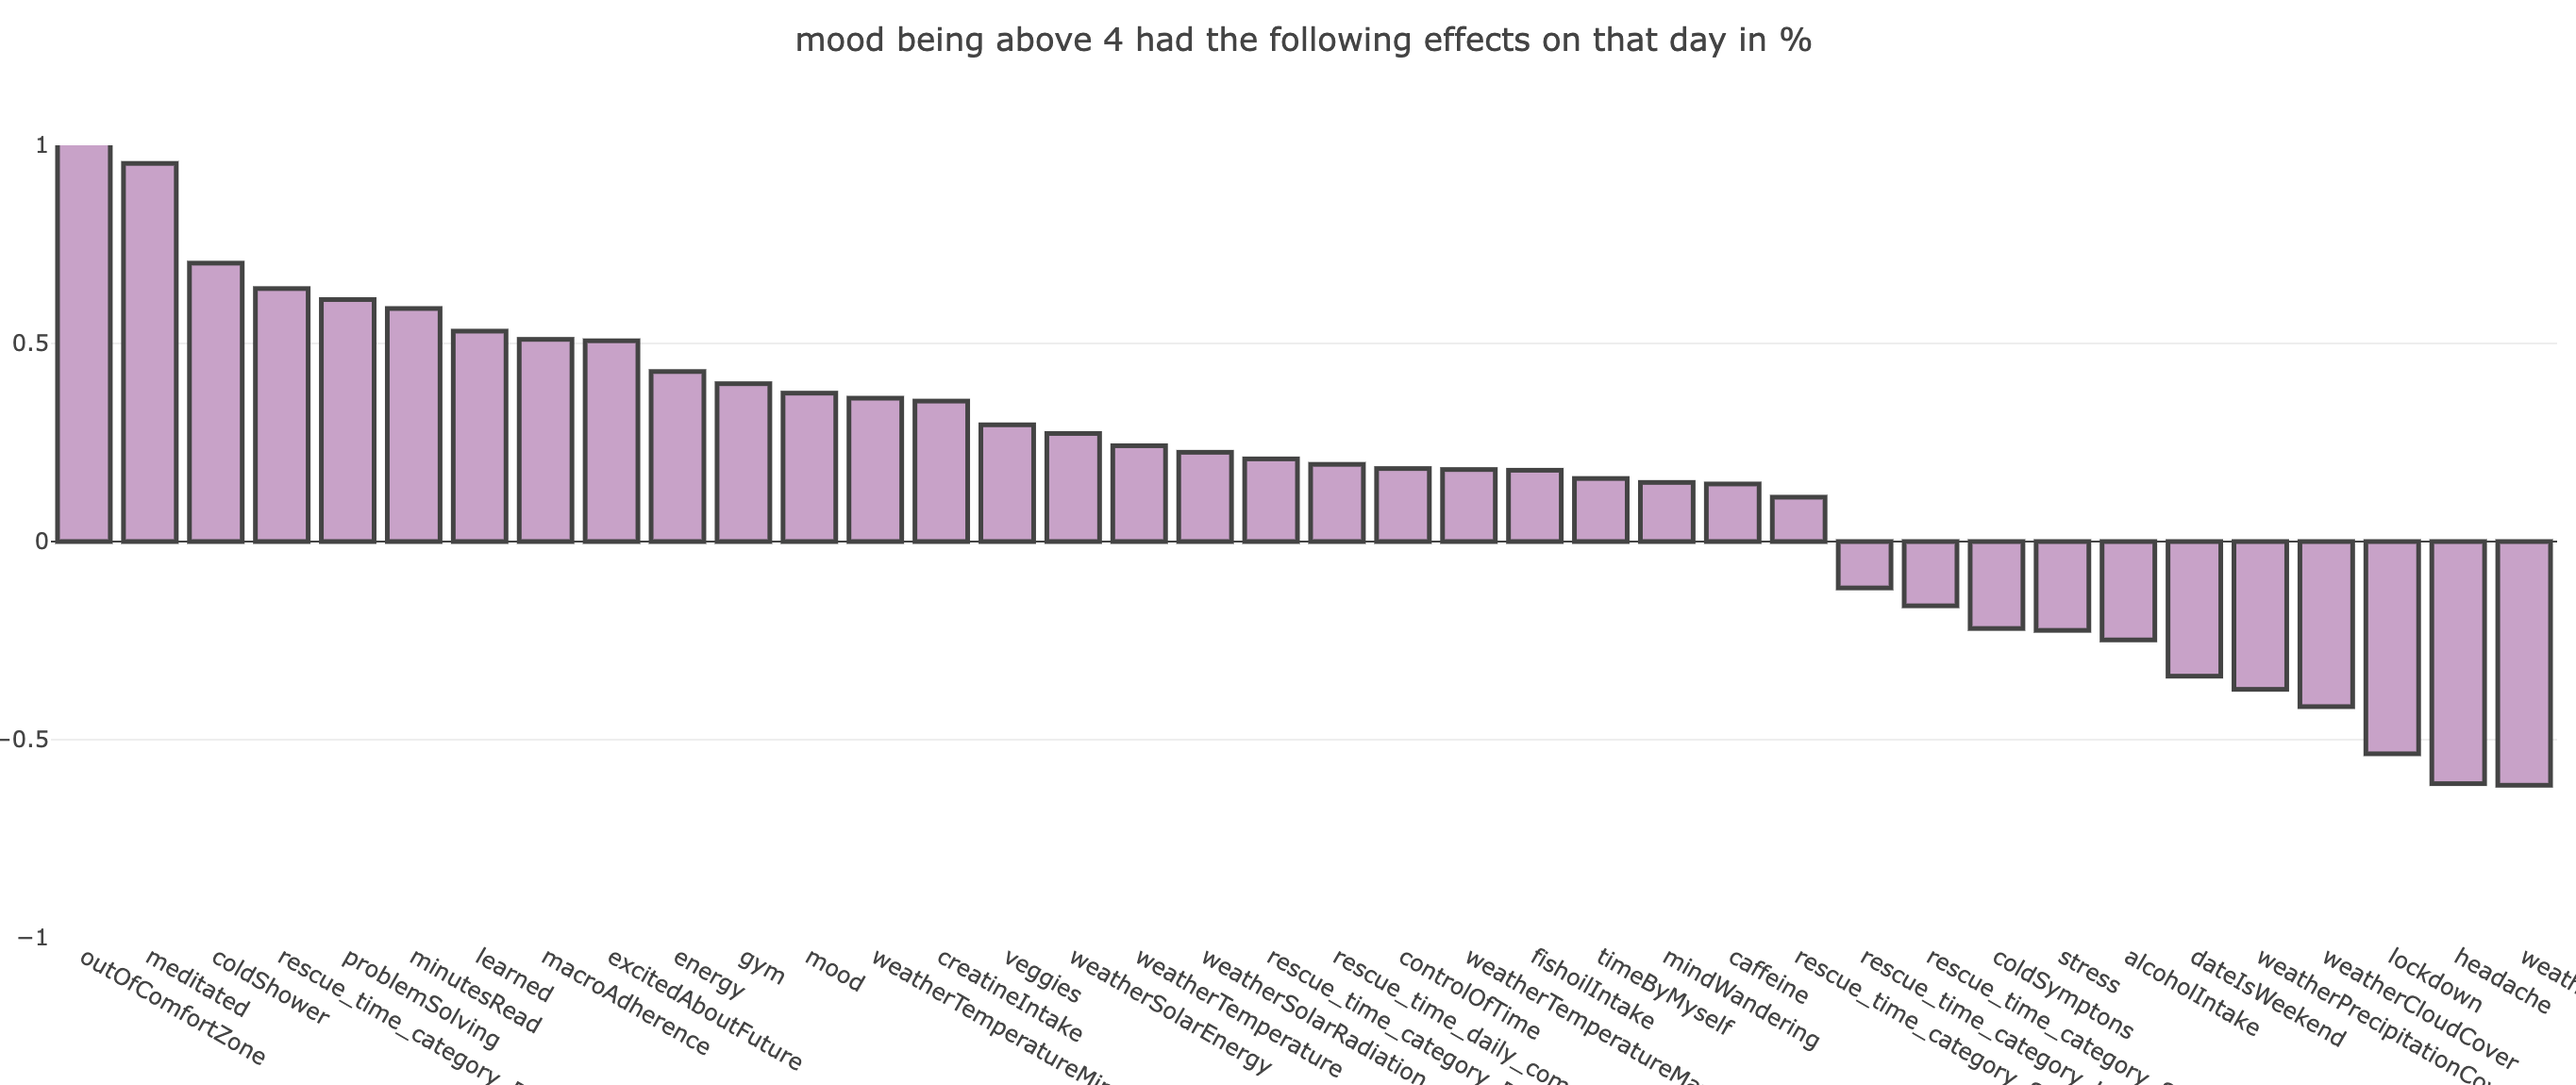
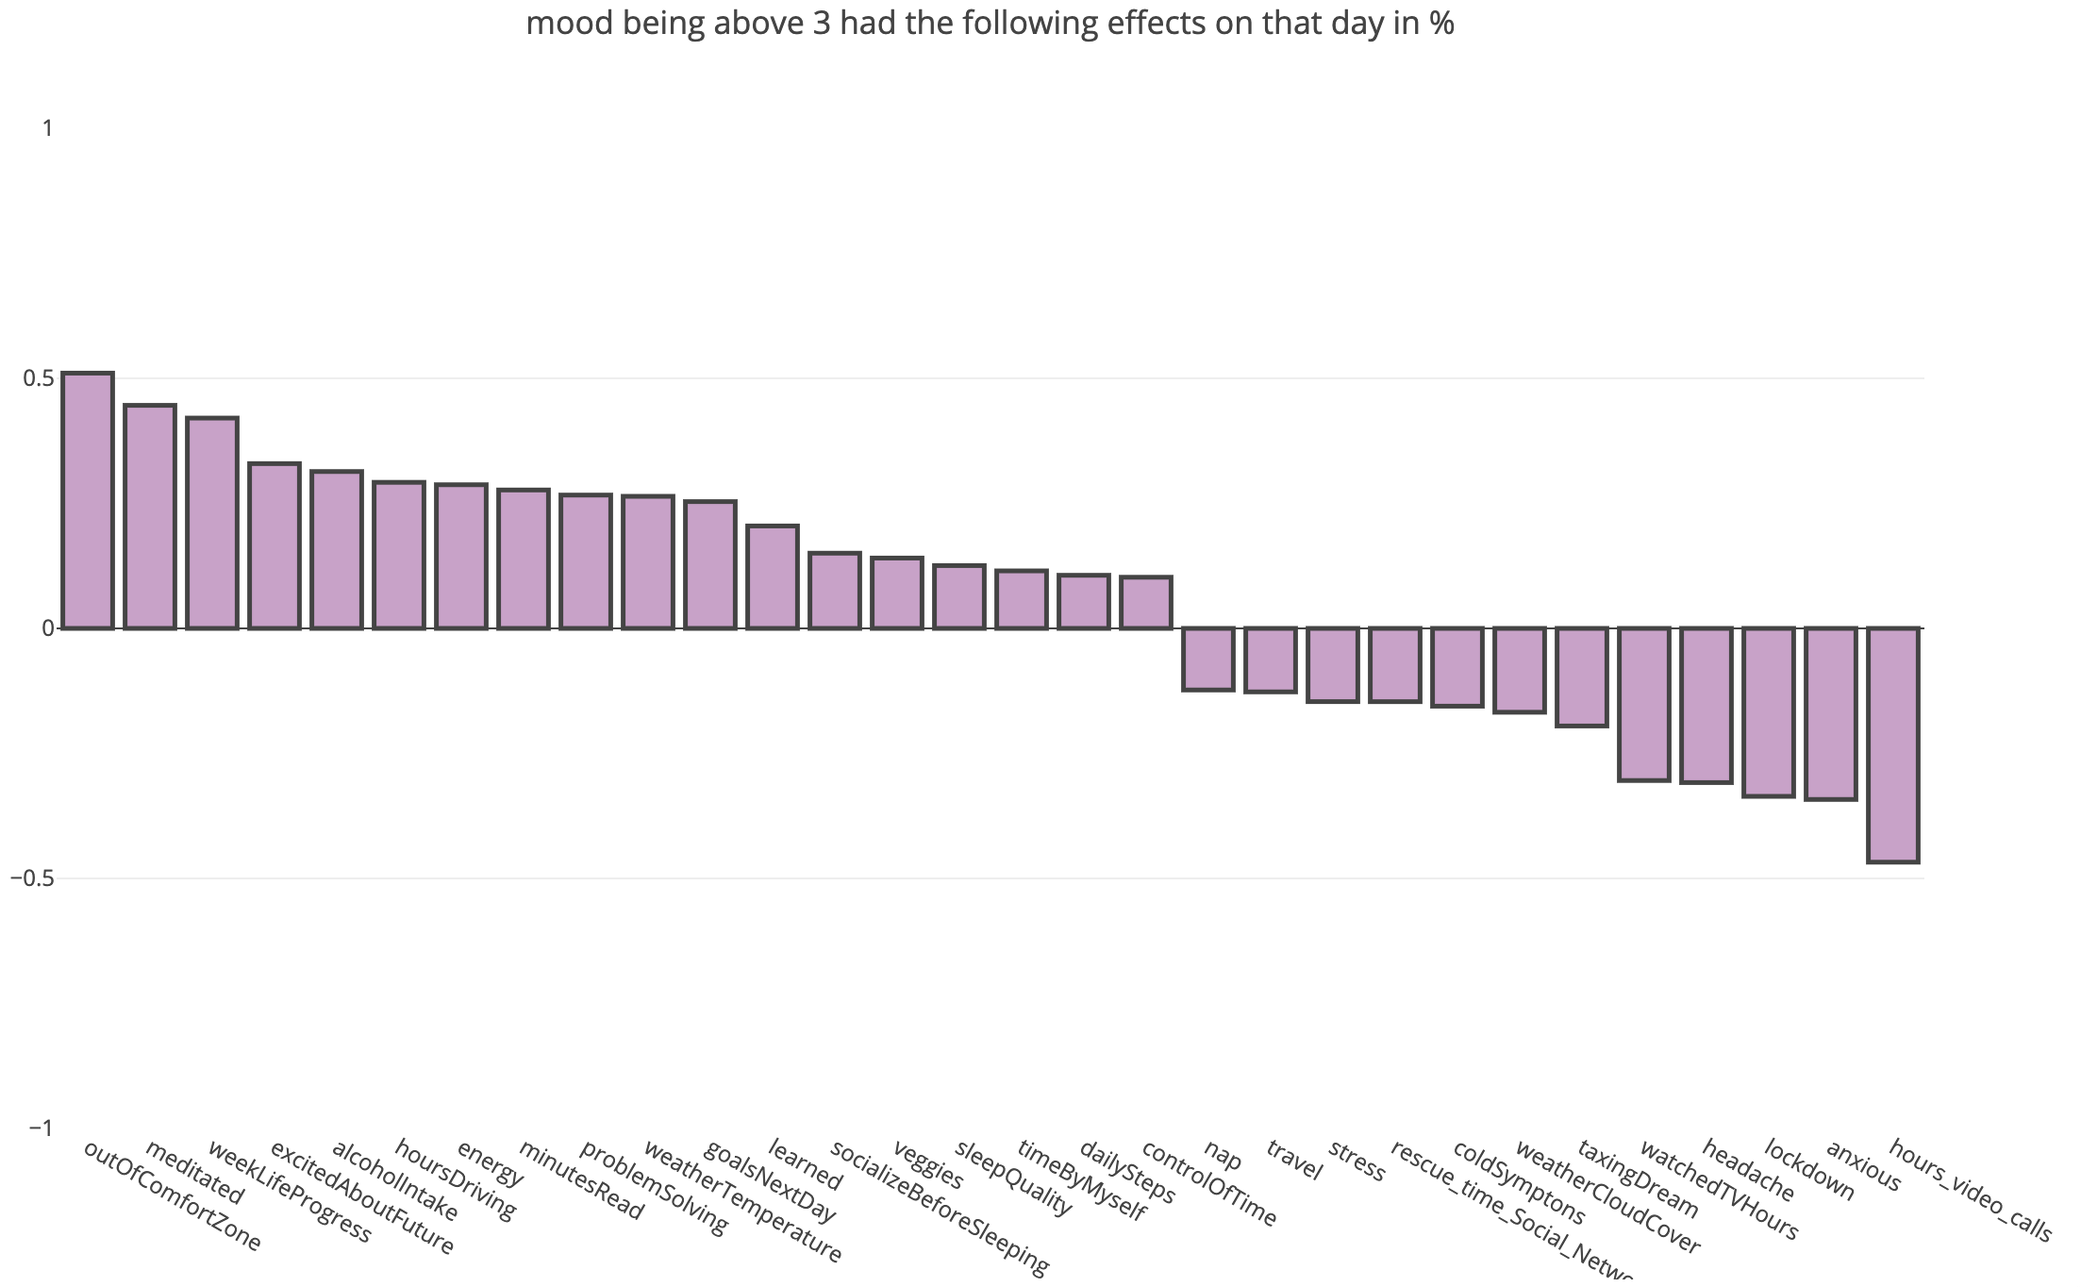
Remove duplicate mood graph

diff --git a/data.md b/data.md
@@ -270,7 +270,7 @@ Currently, I have <b><span id="data-points" class="highlighed">~380,000</span> d
   <tr><td>Apple Health</td><td><span class="highlighted" id="h-health">3,048</span></td><td>Steps data</td></tr>
 </table>
 
-Currently I have <span class="highlighted">42</span> graphs published here. They are snapshots taken on a given day for privacy reasons, and are non-interactive to prevent any accidental data leaks.
+Currently I have <span class="highlighted">41</span> graphs published here. They are snapshots taken on a given day for privacy reasons, and are non-interactive to prevent any accidental data leaks.
 
 
 
@@ -308,25 +308,33 @@ Currently I have <span class="highlighted">42</span> graphs published here. They
     
     
 
-    <div class="graphs-entry" id="graphs-entry-mood-happy-days">
-      <h3>Happy Days</h3>
+    <div class="graphs-entry" id="graphs-entry-happy-mood-entries-buckets">
+      <h3>Days where I tracked my mood to be happy & excited</h3>
       <p class="graph-description">
-        Bucketing all days, by the days at which I was above average happy (excited, pumped). On days where I was happy:
+        On days where I tracked my mood to be happy & excited, the following other factors of my life were affected
       </p>
 
       <ul>
         
-          <li>50% more likely to have pushed my comfort zone</li>
+          <li>50% more likely to be a day where I went out of my comfort zone</li>
         
-          <li>45% more likely to have medidated that day</li>
+          <li>44% more likely to have medidated that day</li>
         
-          <li>40% more likely to feel good about the current direction in life, and working towards it</li>
+          <li>33% more excited about what's ahead in the future</li>
         
-          <li>15% warmer than the average</li>
+          <li>31% more likely to drink alcohol that day (partys, good friends and such)</li>
         
-          <li>15% less time on social media</li>
+          <li>28% more time spent reading or listening to audio books</li>
         
-          <li>30% less time spent watching TV</li>
+          <li>26% more likely to have worked on interrelated technical challenges</li>
+        
+          <li>26% warmer temperature that day</li>
+        
+          <li>20% more likely to have learned something new that day</li>
+        
+          <li>14% more likely to have eaten veggies</li>
+        
+          <li>45% less time spent in video & audio calls that day</li>
         
       </ul>
 
@@ -338,7 +346,7 @@ Currently I have <span class="highlighted">42</span> graphs published here. They
       </span>
 
       <div class="image-container">
-        <img src="graphs/screens/mood-happy-days.png" class="image-link" alt="Happy Days" onclick="enlargeImage(this, 'graphs/screens/mood-happy-days.png', 'Happy Days')" />
+        <img src="graphs/screens/happy-mood-entries-buckets.png" class="image-link" alt="Days where I tracked my mood to be happy & excited" onclick="enlargeImage(this, 'graphs/screens/happy-mood-entries-buckets.png', 'Days where I tracked my mood to be happy & excited')" />
       </div>
 
       <span class="graph-date">2.5 years of data - Last updated on 2022-01-01</span>
@@ -1364,9 +1372,9 @@ Currently I have <span class="highlighted">42</span> graphs published here. They
         
           <li>Since I'm an Introvert, I tend to feel like I socialize too much, rather than too little</li>
         
-          <li>Early COVID lockdown March 2020 was still good, however as the lockdown continued I started feeling more isolated, also partly because I was single, and had just moved to Vienna</li>
+          <li><span class='highlighted'>Early COVID lockdown March 2020 was still good, however as the lockdown continued I started feeling more isolated</span>, also partly because I was single, and had just moved to Vienna</li>
         
-          <li>End of July 2020 Austria opened up most social venues again, bringing this graph back to a great state again</li>
+          <li>End of July 2020 Austria opened up most social venues again, bringing this graph back to an ideal level again</li>
         
           <li>December 2019 I was working remotely from Buenos Aires, however got a pretty bad cold. Being sick in a remote city wasn't the best feeling</li>
         
@@ -1383,60 +1391,6 @@ Currently I have <span class="highlighted">42</span> graphs published here. They
 
       <div class="image-container">
         <img src="graphs/screens/socializing.png" class="image-link" alt="Happy with my social life?" onclick="enlargeImage(this, 'graphs/screens/socializing.png', 'Happy with my social life?')" />
-      </div>
-
-      <span class="graph-date">2.5 years of data - Last updated on 2022-01-01</span>
-    </div>
-  
-    
-    
-    
-
-    <div class="graphs-entry" id="graphs-entry-happy-mood-entries-buckets">
-      <h3>Days where I tracked my mood to be very excited/happy</h3>
-      <p class="graph-description">
-        On days where I tracked my mood to be very excited/happy, the following other factors were affected
-      </p>
-
-      <ul>
-        
-          <li>Significantly more likely to be a day where I went out of my comfort zone</li>
-        
-          <li>Significantly more likely to have medidated that day</li>
-        
-          <li>70% more likely to have taken a freezing cold shower</li>
-        
-          <li>60% more likely to have worked on interrelated technical challenges</li>
-        
-          <li>60% more time spent reading or listening to audio books</li>
-        
-          <li>50% more likely to have learned something new that day</li>
-        
-          <li>50% more excited about what's ahead in the future</li>
-        
-          <li>40% more likely to have hit the gym that day</li>
-        
-          <li>30% more likely to have eaten veggies</li>
-        
-          <li>25% warmer</li>
-        
-          <li>20% more computer use</li>
-        
-          <li>25% less alcoholic beverages</li>
-        
-          <li>35% less likely to be a weekend</li>
-        
-      </ul>
-
-      <span class="graph-sources">
-        <span class="graph-sources-header">
-          Sources: 
-        </span>
-        Manually
-      </span>
-
-      <div class="image-container">
-        <img src="graphs/screens/happy-mood-entries-buckets.png" class="image-link" alt="Days where I tracked my mood to be very excited/happy" onclick="enlargeImage(this, 'graphs/screens/happy-mood-entries-buckets.png', 'Days where I tracked my mood to be very excited/happy')" />
       </div>
 
       <span class="graph-date">2.5 years of data - Last updated on 2022-01-01</span>
